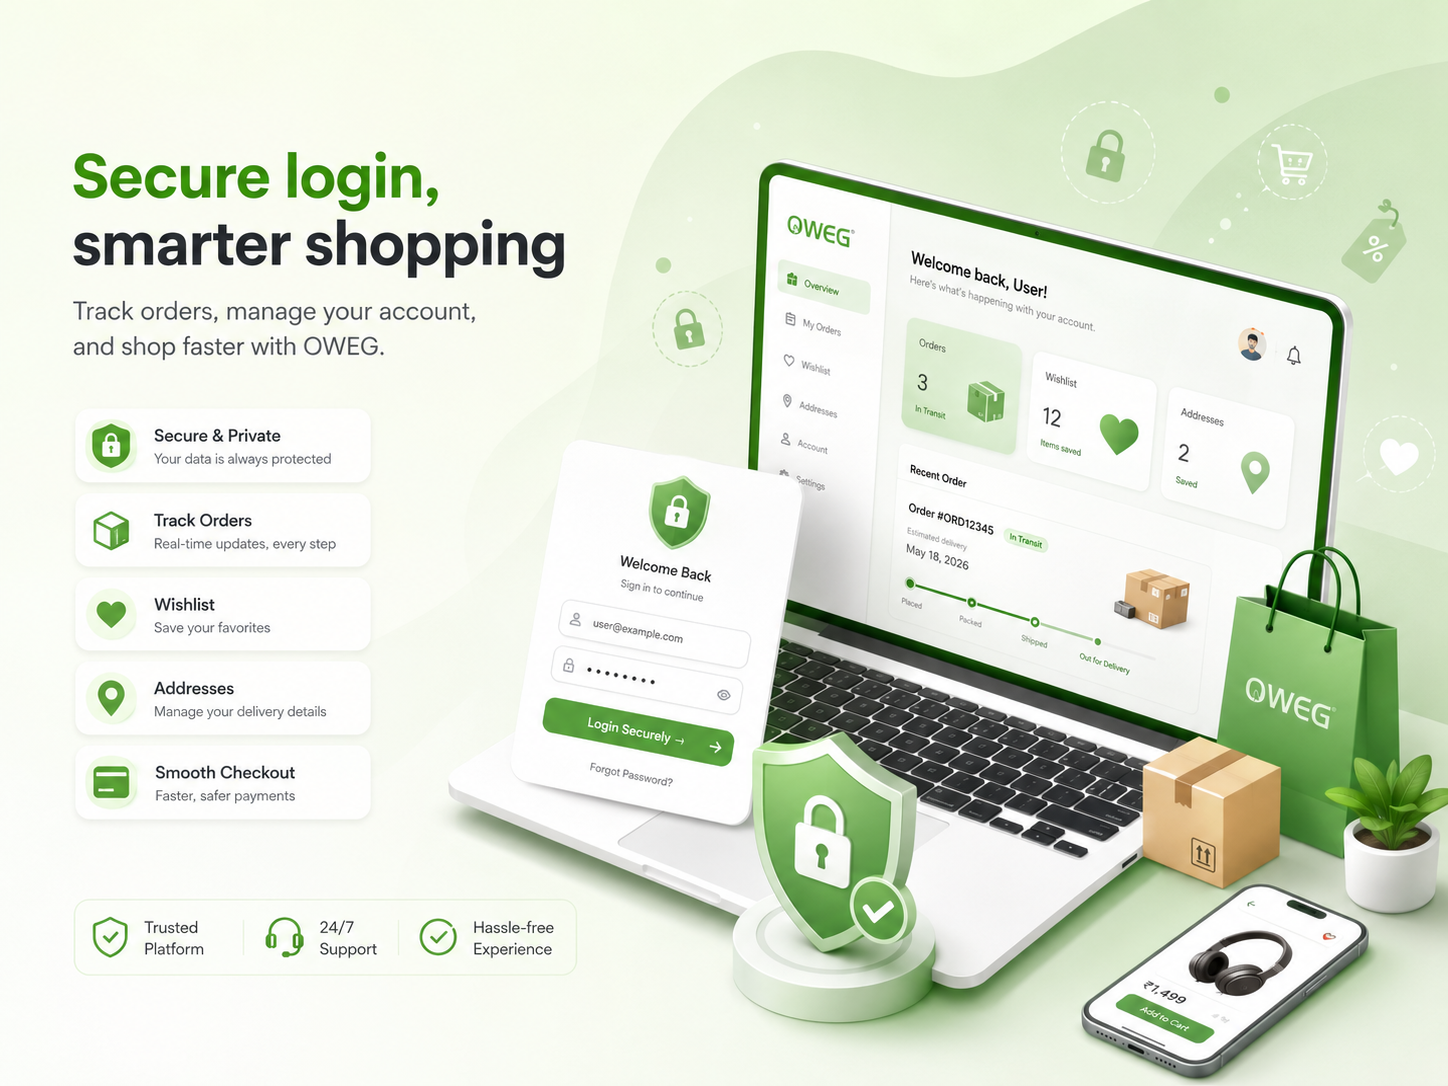
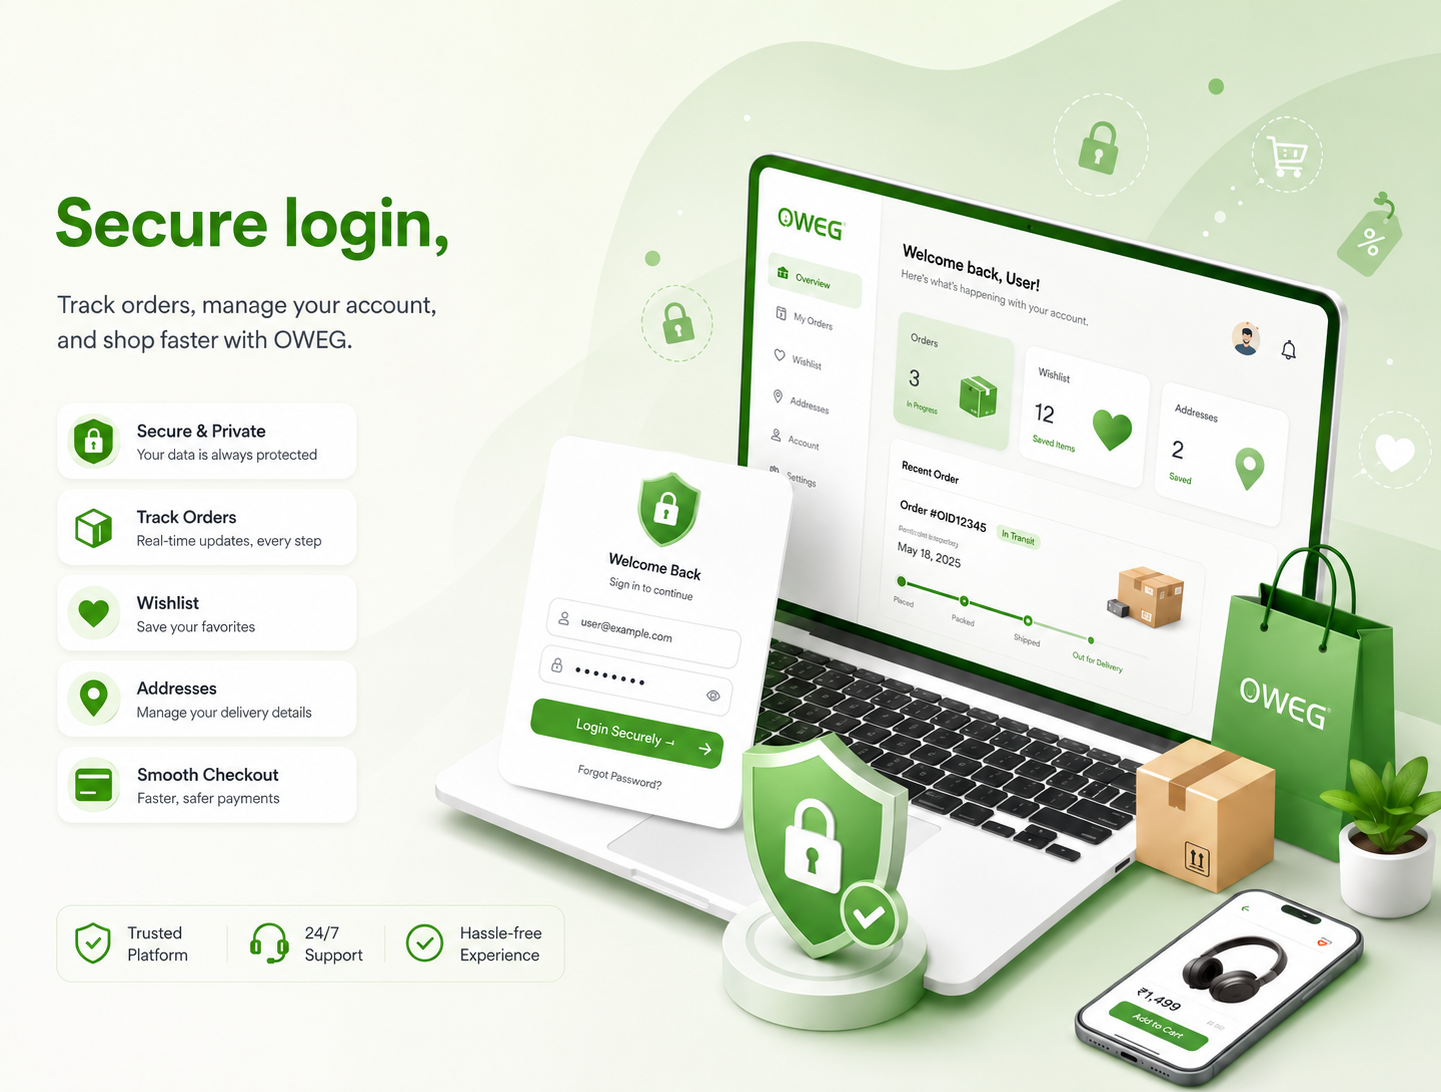
Update FAQ, login promo, and help support; revert PDP to master.
Replace generic FAQs with categorized sections, refresh login banner image, remove redundant WhatsApp line from Help & Support, and restore product detail page to match master.

diff --git a/src/app/faq/page.tsx b/src/app/faq/page.tsx
@@ -1,37 +1,97 @@
-import { ChevronDown, Headphones, ShieldCheck, Timer } from "lucide-react";
+import Link from "next/link";
+import { Headphones, ShieldCheck, Timer } from "lucide-react";
 
-const faqs = [
+type FaqItem = { q: string; a: string };
+type FaqSection = { title: string; items: FaqItem[] };
+
+const faqSections: FaqSection[] = [
   {
-    q: "How fast do you deliver?",
-    a: "Metro orders are often same/next-day. Outside metros, we ship in 24 hours and average 2-5 working days. Real-time ETAs show at checkout.",
-    badge: "Speed",
+    title: "Order",
+    items: [
+      {
+        q: "I missed the delivery of my order today. What should I do?",
+        a: "The courier service delivering your order usually tries to deliver on the next business day in case you miss a delivery.\n\nYou can check your SMS for more details on when the courier service will try to deliver again.",
+      },
+      {
+        q: "Will the delivery be tried again if I'm not able to collect my order the first time?",
+        a: "Couriers make sure that the delivery is re-attempted the next working day if you can't collect your order the first time.",
+      },
+      {
+        q: "The delivery of my order is delayed. What should I do?",
+        a: "On the rare occasion that your order is delayed, please check your email & messages for updates. A new delivery timeframe will be shared with you and you can also track its status by visiting My Orders.",
+      },
+      {
+        q: "What should I do if my order is approved but hasn't been shipped yet?",
+        a: "We usually ship orders 1-2 business days before the delivery date so that they reach you on time. In case your order hasn't been shipped within this time please contact our Customer Support so that we can look into it.",
+      },
+      {
+        q: "Can I take the shipment after opening and checking the contents inside?",
+        a: "As per company policy, a shipment can't be opened before delivery, but you can accept the shipment and get in touch with us later in case you have any concerns.",
+      },
+      {
+        q: "How do I know my order has been confirmed?",
+        a: "An e-mail & SMS will be sent once you've successfully placed your order.",
+      },
+    ],
   },
   {
-    q: "What if I need installation?",
-    a: "Many appliances include brand installation. We also flag when self-install is easy and provide technician-ready notes in your order timeline.",
-    badge: "Setup",
+    title: "Cancellations and Returns",
+    items: [
+      {
+        q: "If I request for a replacement, when will I get it?",
+        a: "Visit My Orders to check the status of your replacement. In most locations, the replacement item is delivered to you at the time of pick-up. In all other areas, the replacement is initiated after the originally delivered item is picked up. Please check the SMS & email we send you for your replacement request for more details.",
+      },
+      {
+        q: "Can items be returned after the time period mentioned in the Returns Policy?",
+        a: "No, we will not be able to accept returns after the time period mentioned in the Returns Policy.",
+      },
+      {
+        q: "Do I have to return the coins when I return a product?",
+        a: "Yes, the coins have to be returned along with the product.",
+      },
+      {
+        q: "How do returns work?",
+        a: "You can raise a request to return your items with these simple steps:\n\n1. Log into your OWEG account\n\n2. Go to My Orders\n\n3. Click on 'Return' against the item you wish to return or exchange\n\n4. Fill in the details and raise a return request\n\nOnce you raise a request, you'll get an email and SMS confirming that your request is being processed. Based on the item, your request may be automatically approved or you may be contacted for more details. If the request is approved, the item will be picked up after which you will get a replacement or refund. You can also track the status of your return request instantly from the 'My Orders' section of your OWEG account.",
+      },
+      {
+        q: "I see the 'Cancel' button but I can't click on it. Why?",
+        a: "A 'Cancel' button can mean any one of the following:\n\n1. The item has been delivered already\n\nOR\n\n2. The item is non-refundable (e.g. Gift Vouchers)",
+      },
+    ],
   },
   {
-    q: "Do you support cash on delivery?",
-    a: "Yes, COD is available on most pin codes. Some oversized items may need prepaid or part-payment—this is shown upfront.",
-    badge: "Payments",
-  },
-  {
-    q: "How do returns work?",
-    a: "Initiate a return from your profile. We arrange pickup, packaging help if needed, and fast refunds after quality checks.",
-    badge: "Returns",
-  },
-  {
-    q: "Is my data safe?",
-    a: "We use secure payments, tokenized cards, and strict privacy controls. You can request data export or deletion anytime.",
-    badge: "Security",
-  },
-  {
-    q: "How do I track my order?",
-    a: "Live tracking sits inside your account + SMS/WhatsApp updates. You’ll see hand-off events, installer details, and support chat in one place.",
-    badge: "Tracking",
+    title: "Shopping",
+    items: [
+      {
+        q: "Is installation offered for all products?",
+        a: "Installation and demo are offered for certain items through the brand or an authorized service provider. Please check the individual product page to see if these services are offered for the item.",
+      },
+    ],
   },
 ];
+
+const customerCareSupport = {
+  title: "24x7 Customer Care Support",
+  body: "You can access 24x7 Customer Care Support on the OWEG Help Centre. Any query or issue that you may possibly have while shopping on OWEG is taken care of here. This page is easy to navigate, and you can get support almost immediately. Once you log onto your OWEG account, this page shows you your recent orders and lets you report any issue. By clicking on the specific order, you can raise your query. It also has a chat option to ensure that your queries and issues are taken care of. Similarly, there are other options on this page that are created to assist you and to make your shopping experience hassle-free. You can get support any time and get a satisfactory solution to your queries and issues within minutes.",
+};
+
+function renderAnswer(text: string) {
+  const parts = text.split(/(My Orders)/g);
+  return parts.map((part, index) => {
+    if (part === "My Orders") {
+      return (
+        <Link
+          key={`my-orders-${index}`}
+          href="/account/orders"
+          className="font-medium text-emerald-700 hover:underline"
+        >
+          My Orders
+        </Link>
+      );
+    }
+    return <span key={`text-${index}`}>{part}</span>;
+  });
+}
 
 export default function FAQPage() {
   return (
@@ -44,31 +104,41 @@ export default function FAQPage() {
           </div>
           <h1 className="text-3xl sm:text-4xl font-semibold">Ask us anything before you plug in.</h1>
           <p className="text-gray-600 max-w-3xl mx-auto">
-            Quick answers to the most common questions. Need a human? Ping support from your profile—real people respond fast.
+            Find answers about orders, returns, and shopping on OWEG. Need a human? Ping support from your profile—real people respond fast.
           </p>
         </header>
 
-        <section className="grid gap-4">
-          {faqs.map((item) => (
-            <div
-              key={item.q}
-              className="group rounded-2xl border border-gray-100 bg-white shadow-[0_18px_38px_-28px_rgba(0,0,0,0.35)] px-5 py-4 transition hover:-translate-y-1 hover:shadow-[0_22px_46px_-28px_rgba(0,0,0,0.45)]"
-            >
-              <div className="flex items-start justify-between gap-4">
-                <div className="space-y-2">
-                  <div className="flex items-center gap-2">
-                    <span className="rounded-full bg-emerald-50 text-emerald-700 border border-emerald-100 px-3 py-1 text-xs font-semibold">
-                      {item.badge}
-                    </span>
-                    <ChevronDown className="w-4 h-4 text-gray-300 group-hover:text-emerald-500 transition" />
+        <div className="space-y-10">
+          {faqSections.map((section) => (
+            <section key={section.title} className="space-y-4">
+              <h2 className="text-xl font-semibold text-gray-900 border-b border-gray-100 pb-2">
+                {section.title}
+              </h2>
+              <div className="grid gap-4">
+                {section.items.map((item) => (
+                  <div
+                    key={item.q}
+                    className="group rounded-2xl border border-gray-100 bg-white shadow-[0_18px_38px_-28px_rgba(0,0,0,0.35)] px-5 py-4 transition hover:-translate-y-1 hover:shadow-[0_22px_46px_-28px_rgba(0,0,0,0.45)]"
+                  >
+                    <p className="text-lg font-semibold">{item.q}</p>
+                    <p className="text-sm text-gray-600 mt-2 leading-relaxed whitespace-pre-line">
+                      {renderAnswer(item.a)}
+                    </p>
                   </div>
-                  <p className="text-lg font-semibold">{item.q}</p>
-                </div>
+                ))}
               </div>
-              <p className="text-sm text-gray-600 mt-2 leading-relaxed">{item.a}</p>
-            </div>
+            </section>
           ))}
-        </section>
+
+          <section className="space-y-4">
+            <h2 className="text-xl font-semibold text-gray-900 border-b border-gray-100 pb-2">
+              {customerCareSupport.title}
+            </h2>
+            <div className="rounded-2xl border border-gray-100 bg-white shadow-[0_18px_38px_-28px_rgba(0,0,0,0.35)] px-5 py-4">
+              <p className="text-sm text-gray-600 leading-relaxed">{customerCareSupport.body}</p>
+            </div>
+          </section>
+        </div>
 
         <section className="grid gap-4 sm:grid-cols-2">
           <div className="rounded-3xl border border-emerald-100 bg-gradient-to-br from-emerald-600 via-emerald-500 to-lime-400 text-white p-6 shadow-lg space-y-3">
@@ -77,7 +147,9 @@ export default function FAQPage() {
               Priority Care
             </div>
             <h3 className="text-xl font-semibold">Need escalation?</h3>
-            <p className="text-sm text-white/90">Talk to the Priority Care team for warranty, installation, or delivery escalations.</p>
+            <p className="text-sm text-white/90">
+              Talk to the Priority Care team for warranty, installation, or delivery escalations.
+            </p>
             <div className="text-sm font-semibold">Email: [email redacted]</div>
           </div>
           <div className="rounded-3xl border border-gray-100 bg-white p-6 shadow-sm space-y-3">
@@ -86,7 +158,9 @@ export default function FAQPage() {
               Quick chat
             </div>
             <h3 className="text-xl font-semibold text-gray-900">Live help from profile</h3>
-            <p className="text-sm text-gray-600">Jump to Profile → Support to start a chat. We respond within minutes during 9 AM–10 PM IST.</p>
+            <p className="text-sm text-gray-600">
+              Jump to Profile → Support to start a chat. We respond within minutes during 11:00 AM to 6:00 PM IST.
+            </p>
             <div className="text-sm text-gray-700">Call: +91 8797787877</div>
           </div>
         </section>

diff --git a/src/components/account/HelpSupportContent.tsx b/src/components/account/HelpSupportContent.tsx
@@ -184,17 +184,6 @@ export default function HelpSupportContent({ embedded = false }: HelpSupportCont
           <Mail className="h-4 w-4" />
           {SUPPORT_EMAIL}
         </a>
-        <p className="mt-3 text-sm text-gray-500">
-          WhatsApp:{" "}
-          <a
-            href={`https://wa.me/${WHATSAPP_NUMBER}`}
-            target="_blank"
-            rel="noopener noreferrer"
-            className="font-semibold text-[#66C940] hover:underline"
-          >
-            +91 8797787877
-          </a>
-        </p>
       </div>
 
       <div className="rounded-2xl border border-gray-200 bg-white p-5 shadow-sm md:p-6">

diff --git a/src/app/productDetail/productDetail.tsx b/src/app/productDetail/productDetail.tsx
@@ -1,7 +1,7 @@
 'use client'
 
 import { useCallback, useEffect, useMemo, useRef, useState } from 'react'
-import { useQuery, useQueryClient } from '@tanstack/react-query'
+import { useQuery } from '@tanstack/react-query'
 import Link from 'next/link'
 import Image from 'next/image'
 import { ChevronRight, Heart, Plus, X } from 'lucide-react'
@@ -44,10 +44,8 @@ import {
   notifyWishlistLogin,
   notifyWishlistSuccess,
 } from '@/lib/notifications'
-import { clearStaleBuyNowSnapshot } from '@/lib/checkout-redirects'
 import { useAuth } from '@/contexts/AuthProvider'
 import { useCartSummary } from '@/contexts/CartProvider'
-import { writeCartQueryCache } from '@/hooks/useCart'
 import { useFlashSale } from '@/hooks/useFlashSale'
 
 const ProductSavingsExplorer = dynamic(() => import('./components/ProductSavingsExplorer'), {
@@ -130,7 +128,6 @@ export default function ProductDetailPage({ productId, initialProduct }: Product
   const [compareDetails, setCompareDetails] = useState<Record<string, DetailedProductType | null>>({})
   const [compareDetailsLoading, setCompareDetailsLoading] = useState<Record<string, boolean>>({})
   const { count, syncFromCartPayload, bumpCount, restoreCount } = useCartSummary()
-  const queryClient = useQueryClient()
   const summaryScrollRef = useRef<HTMLDivElement | null>(null)
   const outOfStockToastRef = useRef<string | null>(null)
   const [wishlistBusy, setWishlistBusy] = useState(false)
@@ -1279,7 +1276,6 @@ export default function ProductDetailPage({ productId, initialProduct }: Product
     const guestCartId = typeof window !== "undefined" ? localStorage.getItem("guest_cart_id") : null;
     const itemLabel = label ?? product?.title ?? "Item";
 
-    clearStaleBuyNowSnapshot();
     notifyCartAddSuccess(itemLabel, qty, goToCart);
     const previousCount = count;
     bumpCount(qty);
@@ -1307,7 +1303,6 @@ export default function ProductDetailPage({ productId, initialProduct }: Product
 
       if (payload) {
         syncFromCartPayload(payload);
-        writeCartQueryCache(queryClient, customer?.id, payload as Record<string, unknown>);
       }
     } catch (err) {
       restoreCount(previousCount);